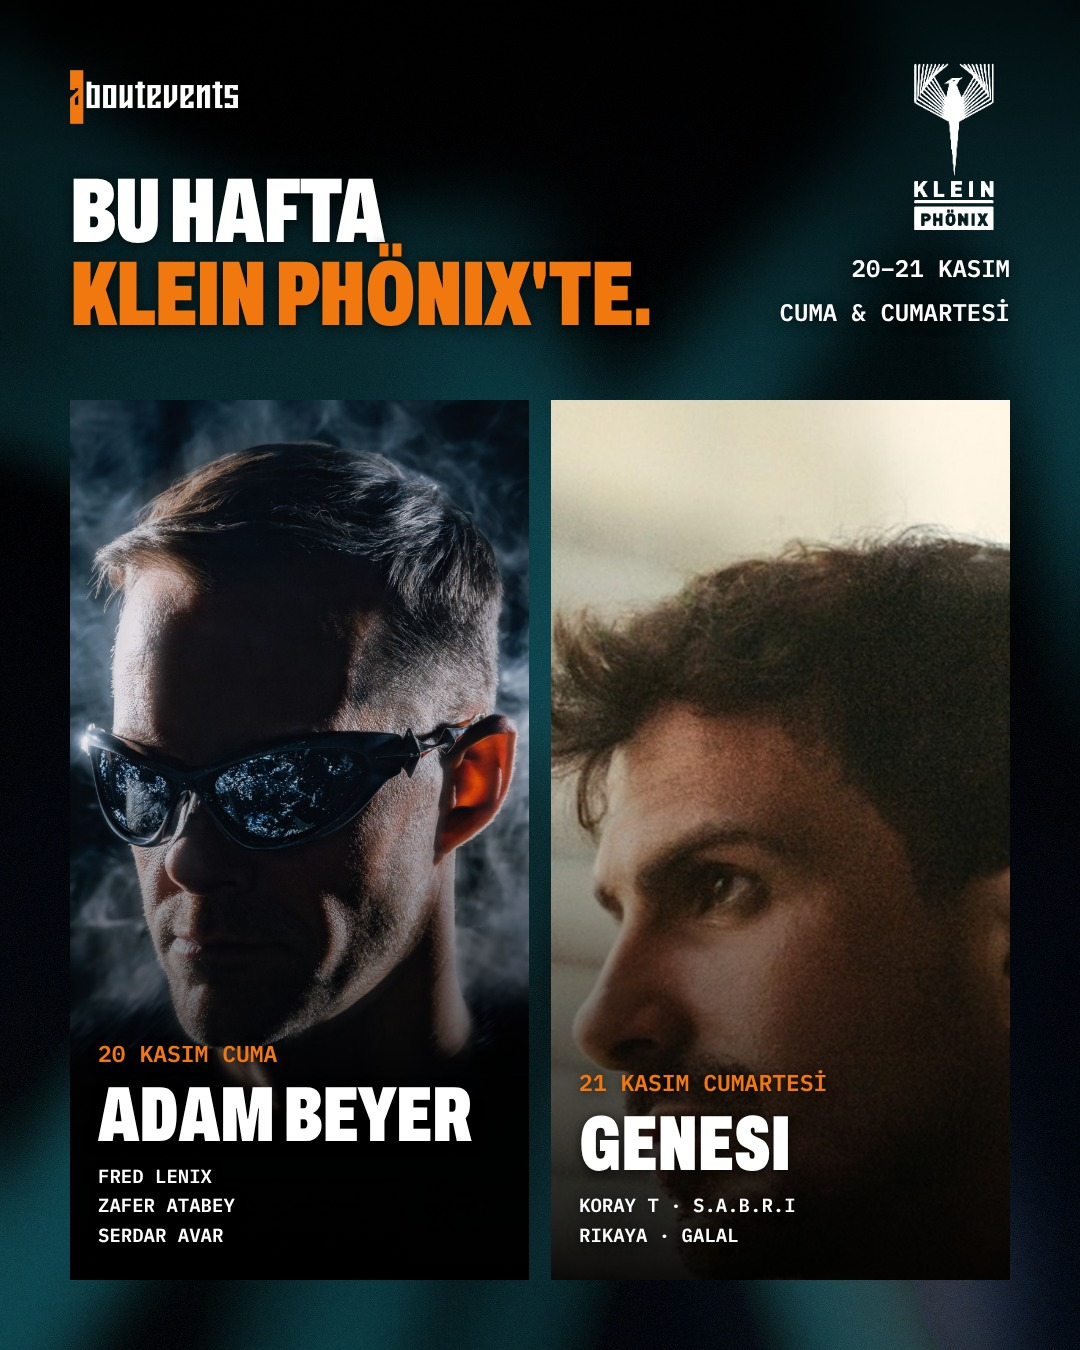
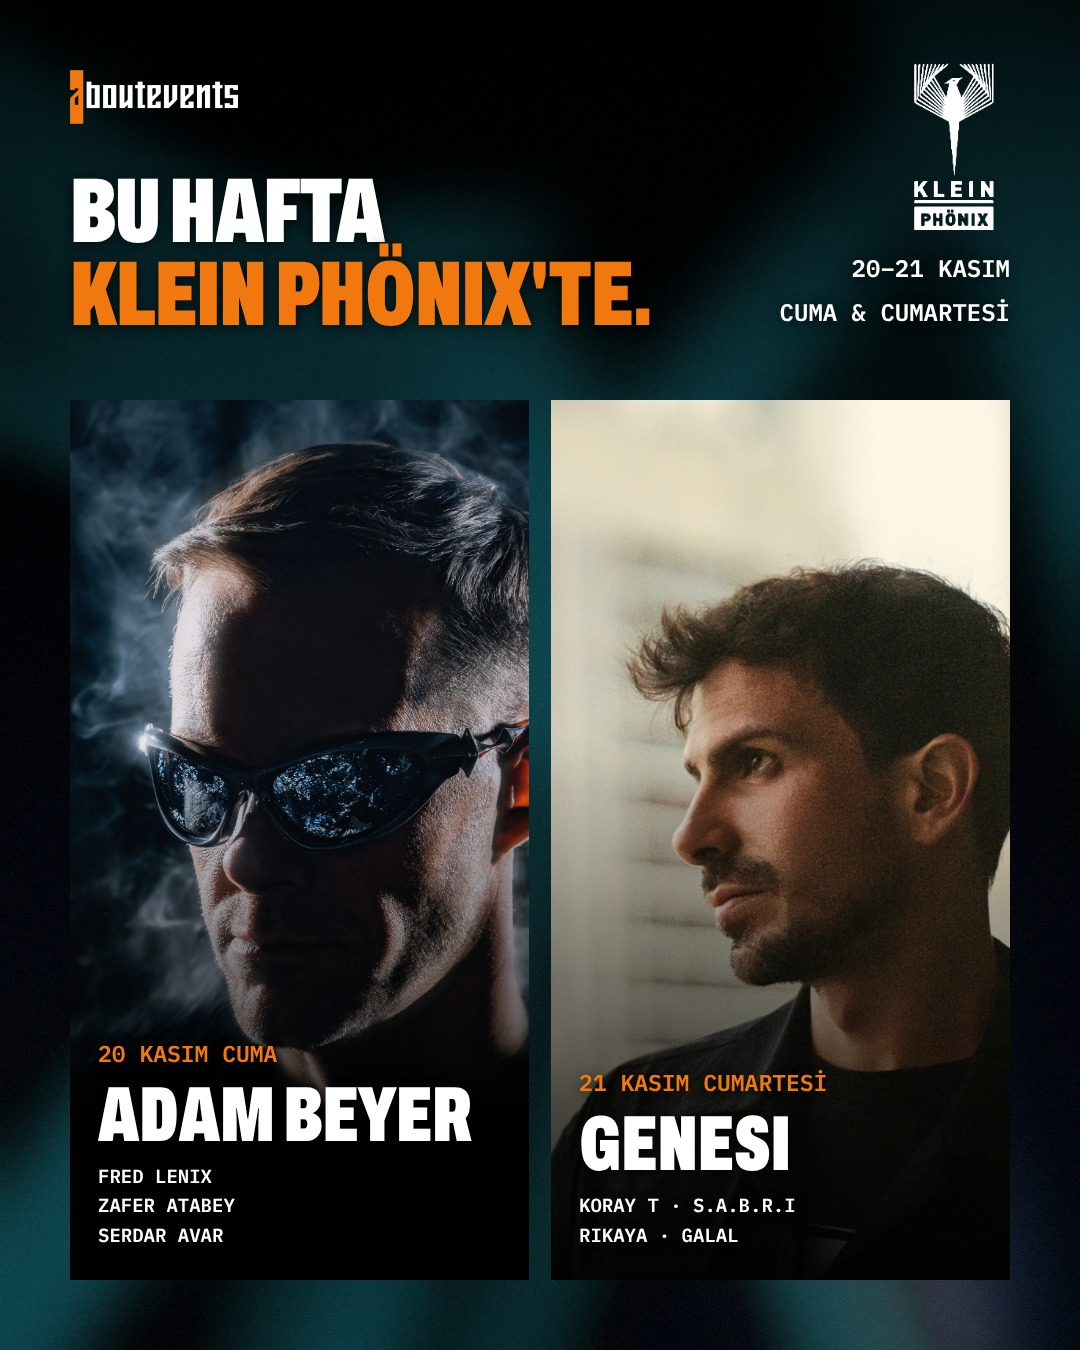
Klein haftalık: yatayda fotoğraf sağda (yüzler tam), dikeyde yan yana dikey kartlar, yeni GENESI fotoğrafı
Claude-Session: https://claude.ai/code/session_014M82QAZG4fjMEMRbe1DaSN

Changed region(s): [[0.0611, 0.28, 0.9472, 0.9333], [0.6722, 0.8711, 0.7028, 0.9022]]

diff --git a/haftalar/2026-11-16_hafta/haftalik_dikey.html b/haftalar/2026-11-16_hafta/haftalik_dikey.html
@@ -29,31 +29,26 @@ a{color:#FFFFFF}a:hover{color:#DDDDDD}
 <div style="font-weight: 900; font-stretch: 62%; font-size: 110px; line-height: 0.9; letter-spacing: -1px">BU HAFTA<br><span style="color: {{accent}}">KLEIN PHÖNIX&#39;TE.</span></div>
 </div>
 
-<div style="position: absolute; left: 80px; right: 80px; top: 690px; display: flex; flex-direction: column; gap: 30px">
-<div style="display: flex; flex-direction: column; gap: 20px">
-<div style="position: relative; height: 540px; overflow: hidden; background: #111111">
-<img src="foto/adambeyer.jpg" alt="Adam Beyer" style="position: absolute; inset: 0; width: 100%; height: 100%; object-fit: cover; object-position: 50% 30%">
-<div style="position: absolute; left: 0; right: 0; bottom: 0; height: 100%; background: linear-gradient(to bottom, rgba(0,0,0,0) 30%, rgba(0,0,0,0.85) 100%)"></div>
-<div style="position: absolute; left: 32px; right: 32px; bottom: 36px; display: flex; flex-direction: column; gap: 16px; text-shadow: 0 2px 12px rgba(0,0,0,0.8)">
+<div style="position: absolute; left: 80px; right: 80px; top: 690px; bottom: 150px; display: grid; grid-template-columns: repeat(2, minmax(0, 1fr)); gap: 24px">
+<div style="position: relative; overflow: hidden; background: #111111">
+<img src="foto/adambeyer.jpg" alt="ADAM BEYER" style="position: absolute; inset: 0; width: 100%; height: 100%; object-fit: cover; object-position: 36% 0%">
+<div style="position: absolute; inset: 0; background: linear-gradient(to bottom, rgba(0,0,0,0) 50%, rgba(0,0,0,0.92) 100%)"></div>
+<div style="position: absolute; left: 30px; right: 26px; bottom: 36px; display: flex; flex-direction: column; gap: 14px; text-shadow: 0 2px 12px rgba(0,0,0,0.8)">
 <div style="font-family: 'IBM Plex Mono', monospace; font-size: 24px; font-weight: 600; color: {{accent}}">20 KASIM CUMA</div>
-<div style="font-weight: 900; font-stretch: 62%; font-size: 84px; line-height: 0.9">ADAM BEYER</div>
-<div style="font-family: 'IBM Plex Mono', monospace; font-size: 22px; font-weight: 600; line-height: 1.5">FRED LENIX · ZAFER ATABEY · SERDAR AVAR</div>
+<div style="font-weight: 900; font-stretch: 62%; font-size: 80px; line-height: 0.9">ADAM BEYER</div>
+<div style="font-family: 'IBM Plex Mono', monospace; font-size: 21px; font-weight: 600; line-height: 1.55">FRED LENIX<br>ZAFER ATABEY<br>SERDAR AVAR</div>
 </div>
 </div>
-</div>
-<div style="display: flex; flex-direction: column; gap: 20px">
-<div style="position: relative; height: 540px; overflow: hidden; background: #111111">
-<img src="foto/genesi.jpg" alt="GENESI" style="position: absolute; inset: 0; width: 100%; height: 100%; object-fit: cover; object-position: 55% 35%">
-<div style="position: absolute; left: 0; right: 0; bottom: 0; height: 100%; background: linear-gradient(to bottom, rgba(0,0,0,0.05) 10%, rgba(0,0,0,0.55) 50%, rgba(0,0,0,0.92) 100%)"></div>
-<div style="position: absolute; left: 32px; right: 32px; bottom: 36px; display: flex; flex-direction: column; gap: 16px; text-shadow: 0 2px 12px rgba(0,0,0,0.8)">
+<div style="position: relative; overflow: hidden; background: #111111">
+<img src="foto/genesi.jpg" alt="GENESI" style="position: absolute; inset: 0; width: 100%; height: 100%; object-fit: cover; object-position: 36% 0%">
+<div style="position: absolute; inset: 0; background: linear-gradient(to bottom, rgba(0,0,0,0) 50%, rgba(0,0,0,0.92) 100%)"></div>
+<div style="position: absolute; left: 30px; right: 26px; bottom: 36px; display: flex; flex-direction: column; gap: 14px; text-shadow: 0 2px 12px rgba(0,0,0,0.8)">
 <div style="font-family: 'IBM Plex Mono', monospace; font-size: 24px; font-weight: 600; color: {{accent}}">21 KASIM CUMARTESİ</div>
-<div style="font-weight: 900; font-stretch: 62%; font-size: 84px; line-height: 0.9">GENESI</div>
-<div style="font-family: 'IBM Plex Mono', monospace; font-size: 22px; font-weight: 600; line-height: 1.5">KORAY T · S.A.B.R.I · RIKAYA · GALAL</div>
+<div style="font-weight: 900; font-stretch: 62%; font-size: 80px; line-height: 0.9">GENESI</div>
+<div style="font-family: 'IBM Plex Mono', monospace; font-size: 21px; font-weight: 600; line-height: 1.55">KORAY T · S.A.B.R.I<br>RIKAYA · GALAL</div>
 </div>
 </div>
 </div>
-</div>
-
 
 </div>
 </x-dc>

diff --git a/haftalar/2026-11-16_hafta/haftalik_yatay.html b/haftalar/2026-11-16_hafta/haftalik_yatay.html
@@ -35,22 +35,22 @@ a{color:#FFFFFF}a:hover{color:#DDDDDD}
 </div>
 
 <div style="position: absolute; left: 100px; right: 100px; top: 390px; bottom: 80px; display: grid; grid-template-columns: repeat(2, minmax(0, 1fr)); gap: 24px">
-<div style="position: relative; overflow: hidden; background: #171815">
-<img src="foto/adambeyer.jpg" alt="Adam Beyer" style="position: absolute; inset: 0; width: 100%; height: 100%; object-fit: cover; object-position: 50% 25%">
-<div style="position: absolute; inset: 0; background: linear-gradient(to bottom, rgba(0,0,0,0) 40%, rgba(0,0,0,0.9) 100%)"></div>
-<div style="position: absolute; left: 36px; right: 36px; bottom: 34px; display: flex; flex-direction: column; gap: 12px; text-shadow: 0 2px 12px rgba(0,0,0,0.8)">
-<div style="font-family: 'IBM Plex Mono', monospace; font-size: 28px; font-weight: 600; color: {{accent}}">20 KASIM CUMA</div>
+<div style="position: relative; overflow: hidden; background: #0d0d0d">
+<img src="foto/adambeyer.jpg" alt="ADAM BEYER" style="position: absolute; top: 0; right: 0; width: 64%; height: 100%; object-fit: cover; object-position: 50% 8%">
+<div style="position: absolute; inset: 0; background: linear-gradient(to right, rgba(13,13,13,1) 37%, rgba(13,13,13,0.6) 50%, rgba(13,13,13,0) 70%)"></div>
+<div style="position: absolute; left: 36px; right: 36px; bottom: 34px; display: flex; flex-direction: column; gap: 14px; text-shadow: 0 2px 12px rgba(0,0,0,0.8)">
+<div style="font-family: 'IBM Plex Mono', monospace; font-size: 26px; font-weight: 600; color: {{accent}}">20 KASIM CUMA</div>
 <div style="font-weight: 900; font-stretch: 62%; font-size: 84px; line-height: 0.9">ADAM BEYER</div>
-<div style="font-family: 'IBM Plex Mono', monospace; font-size: 22px; font-weight: 600">FRED LENIX · ZAFER ATABEY · SERDAR AVAR</div>
+<div style="font-family: 'IBM Plex Mono', monospace; font-size: 22px; font-weight: 600; line-height: 1.55">FRED LENIX<br>ZAFER ATABEY<br>SERDAR AVAR</div>
 </div>
 </div>
-<div style="position: relative; overflow: hidden; background: #171815">
-<img src="foto/genesi.jpg" alt="GENESI" style="position: absolute; inset: 0; width: 100%; height: 100%; object-fit: cover; object-position: 65% 30%">
-<div style="position: absolute; inset: 0; background: linear-gradient(to bottom, rgba(0,0,0,0) 40%, rgba(0,0,0,0.9) 100%)"></div>
-<div style="position: absolute; left: 36px; right: 36px; bottom: 34px; display: flex; flex-direction: column; gap: 12px; text-shadow: 0 2px 12px rgba(0,0,0,0.8)">
-<div style="font-family: 'IBM Plex Mono', monospace; font-size: 28px; font-weight: 600; color: {{accent}}">21 KASIM CUMARTESİ</div>
+<div style="position: relative; overflow: hidden; background: #0d0d0d">
+<img src="foto/genesi.jpg" alt="GENESI" style="position: absolute; top: 0; right: 0; width: 64%; height: 100%; object-fit: cover; object-position: 40% 18%">
+<div style="position: absolute; inset: 0; background: linear-gradient(to right, rgba(13,13,13,1) 37%, rgba(13,13,13,0.6) 50%, rgba(13,13,13,0) 70%)"></div>
+<div style="position: absolute; left: 36px; right: 36px; bottom: 34px; display: flex; flex-direction: column; gap: 14px; text-shadow: 0 2px 12px rgba(0,0,0,0.8)">
+<div style="font-family: 'IBM Plex Mono', monospace; font-size: 26px; font-weight: 600; color: {{accent}}">21 KASIM CUMARTESİ</div>
 <div style="font-weight: 900; font-stretch: 62%; font-size: 84px; line-height: 0.9">GENESI</div>
-<div style="font-family: 'IBM Plex Mono', monospace; font-size: 22px; font-weight: 600">KORAY T · S.A.B.R.I · RIKAYA · GALAL</div>
+<div style="font-family: 'IBM Plex Mono', monospace; font-size: 22px; font-weight: 600; line-height: 1.55">KORAY T<br>S.A.B.R.I<br>RIKAYA · GALAL</div>
 </div>
 </div>
 </div>

diff --git a/haftalar/2026-11-16_hafta/haftalik_4x5.html b/haftalar/2026-11-16_hafta/haftalik_4x5.html
@@ -21,7 +21,7 @@
 </div>
 <div style="position: absolute; left: 70px; right: 70px; top: 400px; bottom: 70px; display: grid; grid-template-columns: repeat(2, minmax(0, 1fr)); gap: 22px">
 <div style="position: relative; overflow: hidden; background: #171815">
-<img src="foto/adambeyer.jpg" alt="Adam Beyer" style="position: absolute; inset: 0; width: 100%; height: 100%; object-fit: cover; object-position: 50% 30%">
+<img src="foto/adambeyer.jpg" alt="Adam Beyer" style="position: absolute; inset: 0; width: 100%; height: 100%; object-fit: cover; object-position: 36% 0%">
 <div style="position: absolute; inset: 0; background: linear-gradient(to bottom, rgba(0,0,0,0) 38%, rgba(0,0,0,0.92) 100%)"></div>
 <div style="position: absolute; left: 28px; right: 24px; bottom: 30px; display: flex; flex-direction: column; gap: 12px; text-shadow: 0 2px 12px rgba(0,0,0,0.8)">
 <div style="font-family: 'IBM Plex Mono', monospace; font-size: 23px; font-weight: 600; color: {{accent}}">20 KASIM CUMA</div>
@@ -30,7 +30,7 @@
 </div>
 </div>
 <div style="position: relative; overflow: hidden; background: #171815">
-<img src="foto/genesi.jpg" alt="GENESI" style="position: absolute; inset: 0; width: 100%; height: 100%; object-fit: cover; object-position: 42% 40%">
+<img src="foto/genesi.jpg" alt="GENESI" style="position: absolute; inset: 0; width: 100%; height: 100%; object-fit: cover; object-position: 36% 0%">
 <div style="position: absolute; inset: 0; background: linear-gradient(to bottom, rgba(0,0,0,0) 38%, rgba(0,0,0,0.92) 100%)"></div>
 <div style="position: absolute; left: 28px; right: 24px; bottom: 30px; display: flex; flex-direction: column; gap: 12px; text-shadow: 0 2px 12px rgba(0,0,0,0.8)">
 <div style="font-family: 'IBM Plex Mono', monospace; font-size: 23px; font-weight: 600; color: {{accent}}">21 KASIM CUMARTESİ</div>
